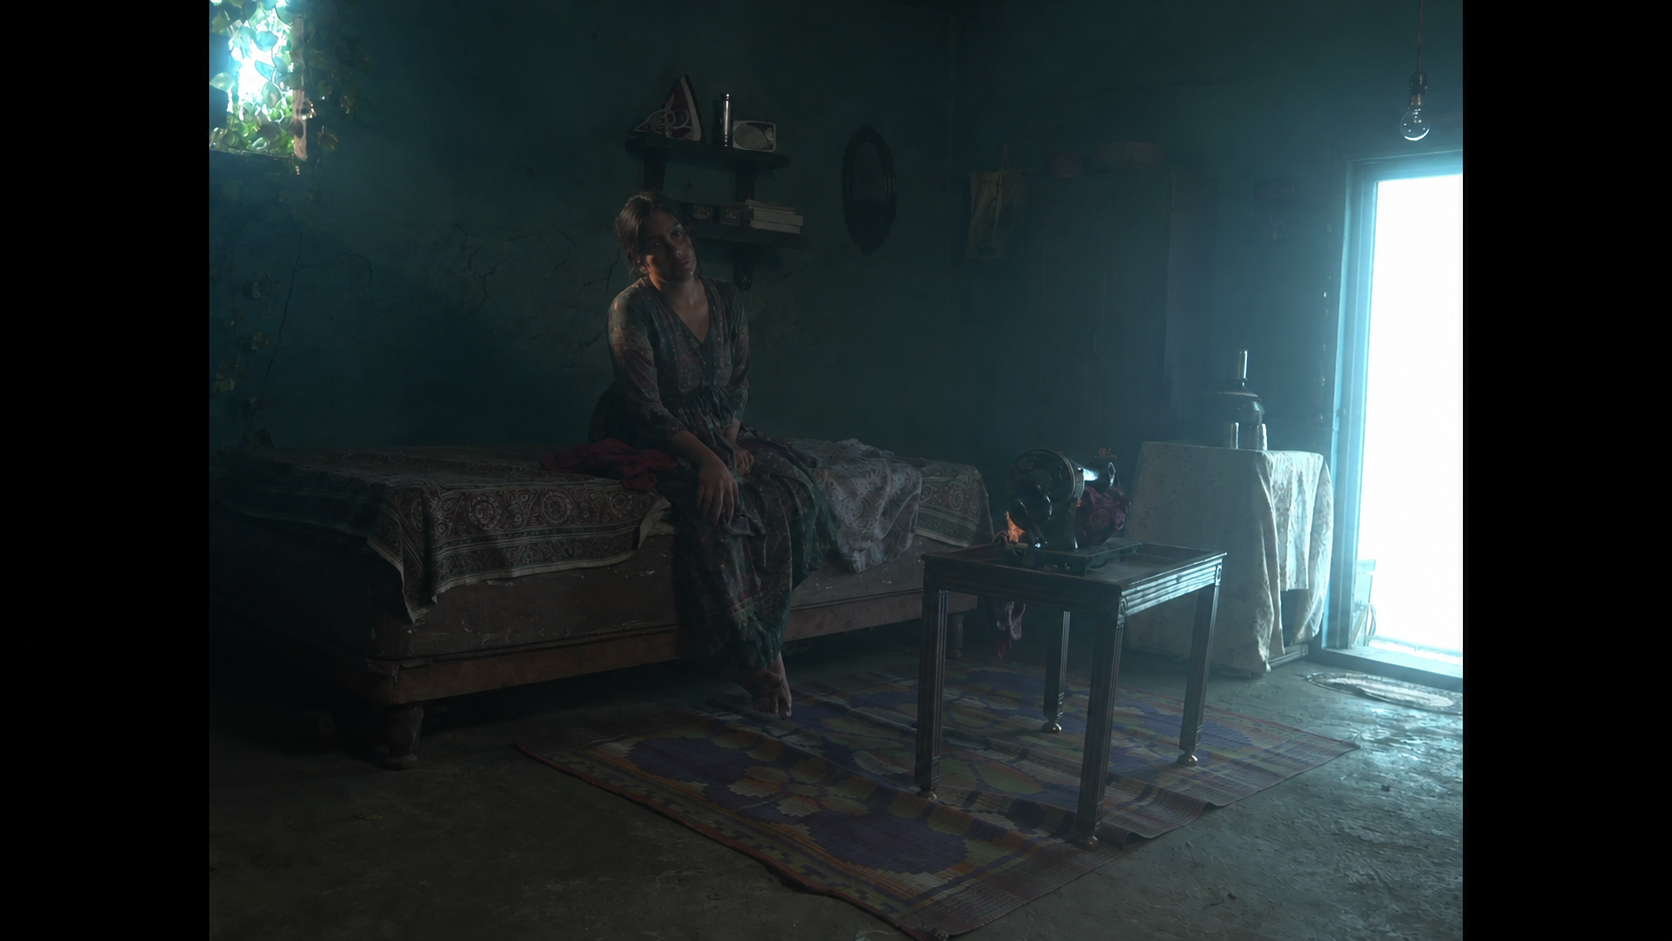
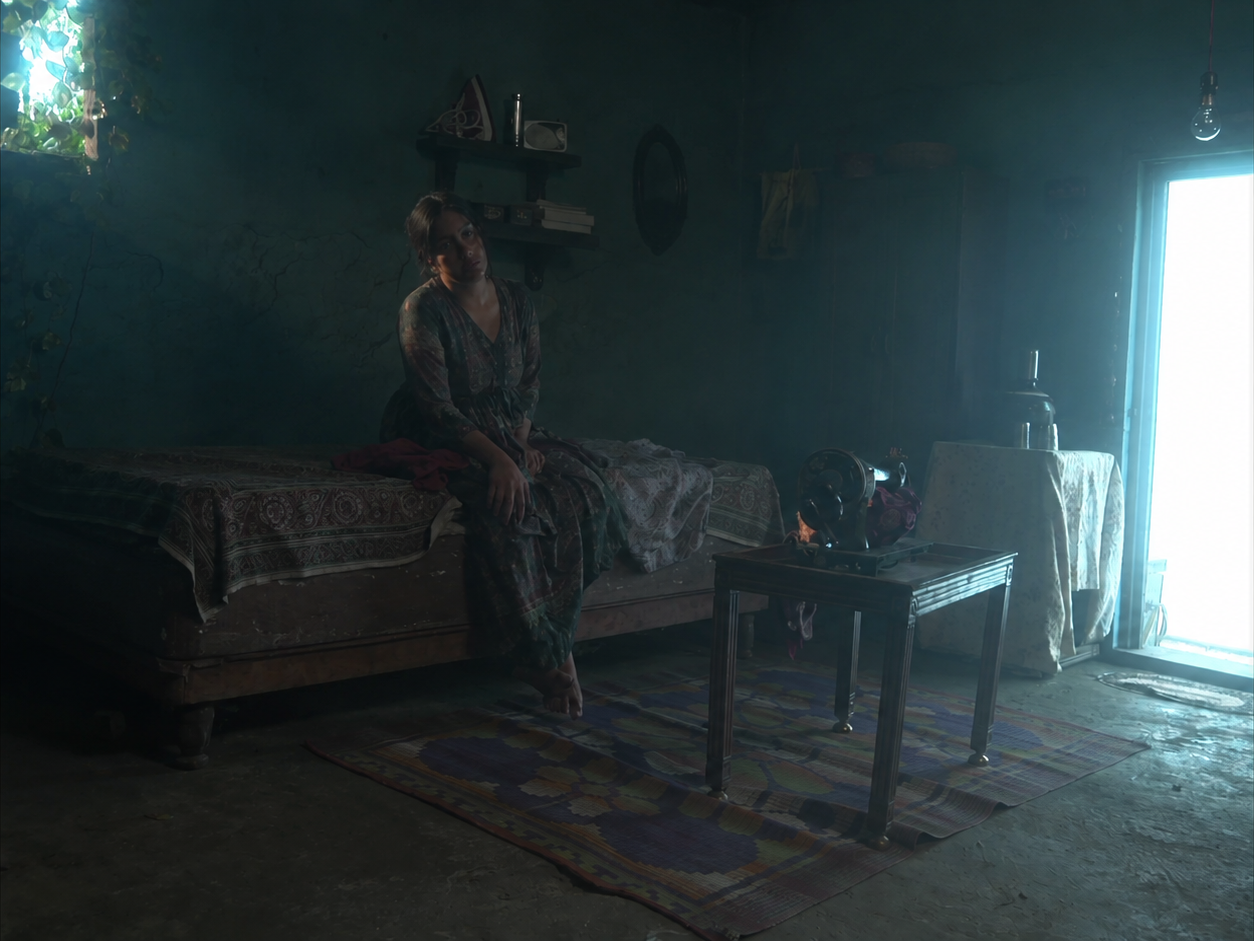
Ira cropped to 4:3, Special Ops' hover role shortened, Selected works reordered
THREE CHANGES, ON UGAM'S INSTRUCTION.

1 · SPECIAL OPS' HOVER ROLE IS "Additional Production" ALONE. The work
page is untouched — `role` and the meta Role row still carry "Assistant
Composer · Additional Production", and that is what the colophon sets.
It cut the widest fact in the catalogue from 336.5px to 166.8px.

  BUT IT DOES NOT FIT ONE LINE EVERYWHERE, AND THAT WAS THE POINT OF
  THE CHANGE. Measured: the block needs 455.3px and has 414.2 at 1280,
  so it is 41.1px over and still wraps; at 1366 it is 9.0px over; at
  1440 it fits with 18.6px to spare. The facts hang in whatever the
  title leaves and "Special Ops 2.0" is a long title, so the remaining
  width is the three 28-32px column gaps plus the 18px indent. Closing
  it would mean trimming those for all seventeen works, which is part
  of the fm5 setting applied earlier today — so it is not done here.

2 · IRA'S BEZELS ARE OFF AND ITS RATIO IS 4:3, NOT 16:9. The frames
arrived as a 4:3 picture pillarboxed into a 16:9 export. Found by the
test src/lib/frames.ts insists on — a threshold near zero read at the
edge: columns 0..208 are flat black on all eight frames and column 209
steps straight into picture, 4.2 to 127.8. Symmetric, so 209 came off
each side. Files are now 1254x941 and 1253x941.

  THE PICTURE IS NOT COMPROMISED: 4,992 sampled pixels across the eight
  frames are byte-identical to the originals at x+209, and PNG carries
  no loss through a re-encode. Originals are in git at 3c0cd89.
[…]

diff --git a/src/data/composition.ts b/src/data/composition.ts
@@ -39,89 +39,100 @@ export interface Stanza {
 }
 
 export const composition: Stanza[] = [
+  /* REORDERED 2026-09-30 on Ugam's instruction, which gave the seventeen
+     works as a numbered list and nothing else. The ORDER below is his; the
+     stanzas, columns, spans, offsets and pauses are mine, because a linear
+     list does not say which works stand together or how wide any of them is.
+
+     THE GROUPING IS BY SHAPE, as it was before, and only consecutive works
+     can pair — so the list decides which pairings were available and the
+     ratios decided which of those to take. Two pairs survive from the old
+     score intact, Aladdin with Dinshaw's and the two records, because the
+     new order happens to keep them adjacent. */
+
   // ── Movement I ──────────────────────────────────────────────────
   {
-    // The award film, alone and centred. Eight columns.
-    items: [{ slug: 'mumbai-standard-time', col: 3, span: 8, tCol: 1, tSpan: 6 }],
+    // Diwali opens now. Alone and centred at eight columns — the treatment
+    // Mumbai had when it opened, because what that placement is for is
+    // giving the first frame nothing to be compared against.
+    items: [{ slug: 'diwali-ke-shor-mein', col: 3, span: 8, tCol: 1, tSpan: 6 }],
     pause: 20,
   },
   {
-    // Both leads are 16:9, so Diwali is separated from 001 by width and by
-    // company: seven columns, with the site's only 4:3 frame beside it.
+    // THE INVERSION: 16:9 against 9:16, the same ratio transposed. It was
+    // Book My Yamraj against Special Ops before and the new order breaks
+    // that adjacency, but it puts Mumbai next to Book My Yamraj instead,
+    // which is the same argument with a different pair of works.
     items: [
-      { slug: 'diwali-ke-shor-mein', col: 1, span: 7, tCol: 1, tSpan: 4 },
-      { slug: 'aasha', col: 9, span: 4, offset: 20, tCol: 5, tSpan: 2, tOffset: 14 },
+      { slug: 'mumbai-standard-time', col: 1, span: 7, tCol: 1, tSpan: 4 },
+      { slug: 'book-my-yamraj', col: 9, span: 3, offset: 20, tCol: 5, tSpan: 2, tOffset: 14 },
     ],
     pause: 24,
+  },
+  {
+    // Aasha alone and small after a loud pair. It is one of the two 4:3
+    // frames on the site now that Ira's bezels are off, and the other is
+    // four places further down, which is far enough apart that they read as
+    // a proportion recurring rather than as a pair split up.
+    items: [{ slug: 'aasha', col: 2, span: 5, tCol: 1, tSpan: 4 }],
+    pause: 18,
   },
   {
     // 3:2 edge-to-edge was 960px tall on a 1440 screen — taller than the
     // viewport, so you had to scroll to see one frame. Height is capped at
     // 78vh instead and the width follows from the ratio, so it always fits
-    // in one look and the stills keep their exact proportions.
+    // in one look and the stills keep their exact proportions. Unchanged.
     items: [{ slug: 'taskaree', col: 1, span: 12, maxVh: 78, tCol: 1, tSpan: 6 }],
     pause: 22,
-  },
-  {
-    // The inversion: 9:16 against 16:9. The same ratio, transposed.
-    items: [
-      { slug: 'book-my-yamraj', col: 1, span: 3, tCol: 1, tSpan: 2 },
-      { slug: 'special-ops-2', col: 5, span: 8, offset: 24, tCol: 3, tSpan: 4, tOffset: 16 },
-    ],
-    pause: 28,
   },
 
   // ── Movement II ─────────────────────────────────────────────────
   {
-    // Widest frame on the site. Opens the catalogue alone.
-    items: [{ slug: 'broken-reflections', col: 2, span: 8, tCol: 1, tSpan: 5 }],
+    // Two landscapes at different degrees of wide — 16:9 against 2.35:1.
+    // Broken Reflections opened the catalogue alone before and cannot now,
+    // because the order puts it directly after another wide frame; set
+    // beside one it becomes a comparison instead of an entrance, which is
+    // the better of the two things a 2.35 can do next to a 16:9.
+    items: [
+      { slug: 'special-ops-2', col: 1, span: 6, tCol: 1, tSpan: 3 },
+      { slug: 'broken-reflections', col: 8, span: 5, offset: 18, tCol: 4, tSpan: 3, tOffset: 12 },
+    ],
+    pause: 24,
+  },
+  {
+    // Ira's first appearance at its true proportion. 4:3 against 16:9, the
+    // narrow one held smaller so the two land at nearly the same height —
+    // 303px against 348 at 1440 — which is what makes the width difference
+    // read as width rather than as importance.
+    items: [
+      { slug: 'ira', col: 2, span: 4, tCol: 1, tSpan: 3 },
+      { slug: 'moholla', col: 7, span: 6, offset: 14, tCol: 4, tSpan: 3, tOffset: 10 },
+    ],
     pause: 20,
   },
   {
-    // IRA, ADDED 2026-09-30 between Broken Reflections and My Red Crayon on
-    // Ugam's instruction. It takes a stanza of its own rather than joining
-    // either neighbour, because both of those stanzas are arguments that a
-    // second frame would break: the one above says "opens the catalogue
-    // alone" and the one below is a scale study of two frames at the SAME
-    // ratio, which a third 16:9 at a third width would turn into a list.
-    //
-    // ← THE PLACEMENT IS MINE. Ugam gave the position in the score, not the
-    //   column or the width. Flush right at 8..12 answers the centred frame
-    //   above it and sets up My Red Crayon, which starts at column 1 — so
-    //   the eye crosses the page between the two rather than stepping down
-    //   the same edge. Five columns keeps it smaller than the frame it
-    //   follows, which is the widest on the site. No offset: offsets here
-    //   exist to break a baseline shared with a second frame in the same
-    //   stanza, and this stanza has none.
-    items: [{ slug: 'ira', col: 8, span: 5, tCol: 3, tSpan: 4 }],
-    pause: 18,
-  },
-  {
-    // The scale study: identical 16:9 proportion at four columns and seven.
+    // The inversion again, and deliberately not adjacent to the first one:
+    // 16:9 against 9:16 with four stanzas between them, so it reads as a
+    // rhyme rather than as a repeat.
     items: [
       { slug: 'my-red-crayon', col: 1, span: 4, tCol: 1, tSpan: 3 },
-      { slug: 'the-shiva-trilogy', col: 6, span: 7, offset: 16, tCol: 4, tSpan: 3, tOffset: 12 },
+      { slug: 'bloody-bubbly', col: 7, span: 3, offset: 16, tCol: 4, tSpan: 2, tOffset: 12 },
     ],
     pause: 24,
   },
   {
-    // A narrow upright against a wide landscape — 9:16 beside 3:2.
-    // Moholla keeps its own six-column width rather than inheriting the
-    // four Dinshaw's had: at 3:2 those columns would have made it squat,
-    // and at 9:16 Dinshaw's would have been over 1100px tall in Moholla's.
-    // Positions swap; each keeps a width that suits its shape.
+    // The widest frame on the site against a standard one. Roar at 2.39:1
+    // takes six columns and Shiva five, which puts them at 259px and 287px
+    // — the wider frame is the bigger object and still the shorter one.
     items: [
-      { slug: 'bloody-bubbly', col: 1, span: 3, tCol: 1, tSpan: 2 },
-      { slug: 'moholla', col: 6, span: 6, offset: 12, tCol: 3, tSpan: 4, tOffset: 10 },
+      { slug: 'the-shiva-trilogy', col: 1, span: 5, tCol: 1, tSpan: 3 },
+      { slug: 'roar', col: 7, span: 6, offset: 14, tCol: 4, tSpan: 3, tOffset: 10 },
     ],
-    pause: 20,
+    pause: 26,
   },
   {
-    items: [{ slug: 'roar', col: 3, span: 8, tCol: 1, tSpan: 5 }],
-    pause: 24,
-  },
-  {
-    // Two uprights at different degrees — 4:5 against 9:16.
+    // Two uprights at different degrees — 4:5 against 9:16. Unchanged from
+    // the old score; the new order keeps these two adjacent.
     items: [
       { slug: 'aladdin-dateable-bites', col: 1, span: 4, tCol: 1, tSpan: 3 },
       { slug: 'dinshaws-dildaari-battles', col: 8, span: 4, offset: 10, tCol: 4, tSpan: 3, tOffset: 8 },
@@ -130,6 +141,7 @@ export const composition: Stanza[] = [
   },
   {
     // Two records, small and square, closing the catalogue quietly.
+    // Unchanged.
     items: [
       { slug: 've-maahi', col: 2, span: 3, tCol: 1, tSpan: 2 },
       { slug: 'mere-ho', col: 6, span: 3, offset: 7, tCol: 3, tSpan: 2, tOffset: 6 },

diff --git a/src/lib/bed.ts b/src/lib/bed.ts
@@ -25,11 +25,21 @@
  * three cells.
  */
 export const BED_SWAPS: Record<string, string> = {
-  /* Measured against the cells that are actually seen, both land well: Aasha
-     takes the cell clear of the aperture edge and of every panel 0.47 of the
-     time — second best on the bed — and Diwali one at 0.29. */
+  /* Measured against the cells that are actually seen, both landed well:
+     Aasha took the cell clear of the aperture edge and of every panel 0.47 of
+     the time — second best on the bed — and Diwali one at 0.29.
+
+     <- VE MAAHI'S TARGET IS BROKEN REFLECTIONS NOW, NOT AASHA, and it was
+       forced rather than preferred. After the 2026-09-30 reorder this swap
+       put Aasha in cell 15 while the unswapped cycle put it in cell 20, and
+       those two are diagonal neighbours — a violation between TWO CENTRE
+       CELLS, which BED_CELLS may not reach. The swap target is the only lever
+       that moves a centre cell, so it had to move. Broken Reflections carries
+       ten frames and a BED_CROP correction proven across all of them, and it
+       lands inside the ring's two-use ceiling. What is lost is the 0.47
+       measurement above, which was about Aasha in particular. */
   'dinshaws-dildaari-battles': 'diwali-ke-shor-mein',
-  've-maahi': 'aasha',
+  've-maahi': 'broken-reflections',
 
   /* THESE THREE ROTATE, they are not two independent exchanges — and because
      the table is keyed on the SCORE'S slug rather than on the current occupant,
@@ -199,10 +209,16 @@ export const BED_GRADE: Record<string, { contrast: number }> = {
  *
  * <- FOURTEEN SINCE IRA, not fifteen, and the two-use ceiling still holds.
  *   Recasting cells 4 and 17 took Shiva and Bloody Bubbly out of the ring and
- *   put Ira in and Broken Reflections up to two. Across the whole bed it is
- *   sixteen works of seventeen, Mere Ho being the one absent -- which is the
- *   arrangement agreeing with BED_SWAPS rather than contradicting it, since
- *   that table already routes Mere Ho away from every cell anyone sees.
+ *   put Ira in and Broken Reflections up to two.
+ *
+ * <- AND AFTER THE REORDER IT IS BETTER THAN IT WAS. Cell 18 is Shiva again
+ *   and cell 28 is Book My Yamraj, which puts ALL SEVENTEEN WORKS in the bed
+ *   and twelve distinct works across the twelve centre cells -- where before
+ *   the reorder it was sixteen of seventeen with Mere Ho absent and the
+ *   centre down to eleven. The ring is still fourteen distinct and still
+ *   under the two-use ceiling. Aladdin and Broken Reflections each hold
+ *   three cells across the whole bed, two of them in the ring, which is what
+ *   the ceiling actually constrains.
  *
  * TONALLY they run 6.3 to 30.4 by the same measurement that puts the twelve
  * centre tiles at 5.9 to 29.7 -- so the partial ring now sits inside the
@@ -262,6 +278,29 @@ export const BED_GRADE: Record<string, { contrast: number }> = {
  *   any frame of that work, so the worry does not bite here.
  */
 /**
+ * THE REORDER, 2026-09-30, AND WHY THIS TABLE KEEPS MOVING.
+ *
+ * Ugam gave a new order for Selected works the same day Ira was added. The
+ * bed walks `order`, so a REORDER perturbs it exactly as an addition does —
+ * and it did, immediately after the repair below: three fresh violations,
+ * cells 15 and 20 both Aasha, 18 and 19 both Book My Yamraj, 21 and 28 both
+ * Taskaree.
+ *
+ * ONE OF THE THREE WAS BETWEEN TWO CENTRE CELLS, which is the case this
+ * table cannot touch, and that is what forced BED_SWAPS to change rather
+ * than only BED_CELLS. Ve Maahi's swap target moved from Aasha to Broken
+ * Reflections; cell 18 took Shiva back and cell 28 took Book My Yamraj.
+ * Verified after, against the table and again in the rendered DOM: 0
+ * violations, all seventeen works in the bed, twelve distinct centre cells.
+ *
+ * <- THE REAL LESSON IS THAT THIS ARRANGEMENT IS COUPLED TO THE SCORE and
+ *   nothing warns you. The centre twelve are whatever `order` puts there,
+ *   the ring is pinned, and only the pair of them together satisfies the
+ *   adjacency rule — so ANY reordering or addition in composition.ts can
+ *   break it silently, and did twice in one day. Nothing in the build
+ *   checks it. If this happens a third time, the fix is probably to make
+ *   the check part of the build rather than to keep re-searching by hand.
+ *
  * IRA, AND WHAT A SEVENTEENTH WORK DID TO THIS ARRANGEMENT.
  *
  * 2026-09-30. The bed walks `order` and repeats it to fill thirty tiles, so
@@ -289,8 +328,14 @@ export const BED_GRADE: Record<string, { contrast: number }> = {
  * looked at first, then measured. Graded at the bed's own brightness(0.30)
  * saturate(0.7) contrast(1.05):
  *
- *   Ira 06                  10.4 mean, brightest 55.3, 0 pixels over #4C4C4C
+ *   Ira 06                  14.0 mean, brightest 62.6, 0 pixels over #4C4C4C
  *   Broken Reflections 09   26.6 mean, brightest 66.1, 0 pixels over #4C4C4C
+ *
+ * <- IRA 06 READ 10.4 WHEN IT WAS PICKED AND READS 14.0 NOW. Nothing about
+ *   the tile changed: its frames were pillarboxed 16:9 when it was measured
+ *   and the black bars were carried into the mean. They came off the same
+ *   day and the figure above is the picture's own. It is still inside the
+ *   bed's band and still clears the ceiling, so the choice stands.
  *
  * Both sit inside the bed's own 6.3..30.4 band and neither breaks the
  * readability ceiling. Ira's other frames were rejected on sight or on tone:
@@ -315,7 +360,7 @@ export const BED_CELLS: Record<number, { slug: string; frame: string; note: stri
   1:  { slug: 've-maahi',             frame: '01.JPG',  note: 'bangles, hands, gold, 18.0' },
   2:  { slug: 'mumbai-standard-time', frame: '10.png',  note: 'an alarm clock, still life, 13.5' },
   3:  { slug: 'dinshaws-dildaari-battles', frame: '08.png', note: 'a crowd in identical masks, 20.8' },
-  4:  { slug: 'ira',                  frame: '06.png',  note: 'a tent, a courtyard, a small red figure, 10.4 - was Shiva 02, see IRA below' },
+  4:  { slug: 'ira',                  frame: '06.png',  note: 'a tent, a courtyard, a small red figure, 14.0 - was Shiva 02, see IRA below' },
   5:  { slug: 'my-red-crayon',        frame: '05.png',  note: 'two children and a red ribbon, 27.8' },
 
   /* side middles, 0.336 visible */
@@ -323,7 +368,7 @@ export const BED_CELLS: Record<number, { slug: string; frame: string; note: stri
   11: { slug: 'aasha',                frame: '05.png',  note: 'blinds, black and white, 20.6' },
   12: { slug: 'roar',                 frame: '02.png',  note: "a tiger's eye, 9.5" },
   17: { slug: 'broken-reflections',   frame: '09.png',  note: 'a lens filling the frame, 26.6 - was Bloody Bubbly 02, see IRA below' },
-  18: { slug: 'book-my-yamraj',       frame: '07.png',  note: '11.8' },
+  18: { slug: 'the-shiva-trilogy',    frame: '02.png',  note: 'an archer against fire, 21.5 - was Book My Yamraj 07, see THE REORDER below' },
   23: { slug: 'aladdin-dateable-bites', frame: '03.png', note: '21.5' },
 
   /* bottom row */
@@ -331,7 +376,7 @@ export const BED_CELLS: Record<number, { slug: string; frame: string; note: stri
   25: { slug: 'moholla',              frame: '02.png',  note: 'a courtyard from above at night, 14.1' },
   26: { slug: 'broken-reflections',   frame: '02.png',  note: 'a face behind glass, 13.9' },
   27: { slug: 'diwali-ke-shor-mein',  frame: '10.jpg',  note: '30.4 - HELD, the tile below the original Special Ops still' },
-  28: { slug: 'taskaree',             frame: '06.webp', note: 'fire behind the figure, 23.2' },
+  28: { slug: 'book-my-yamraj',       frame: '07.png',  note: '11.0 - was Taskaree 06, see THE REORDER below' },
   29: { slug: 'roar',                 frame: '04.png',  note: 'claw marks raked down bark, 9.4' },
 };
 

diff --git a/src/content/works/ira.md b/src/content/works/ira.md
@@ -3,11 +3,20 @@ title: "Ira"
 year: 2024
 category: "Short Film"
 opening: still
-# ← RATIO IS MEASURED, NOT STATED. Ugam's list gives no ratio. All eight
-#   frames are 1672x941 or 1671x941 — 1.7768 and 1.7758 against 16:9's
-#   1.7778, which is screenshot rounding rather than a different shape.
-#   Correct this if the film was finished in something else.
-ratio: "16:9"
+# ← RATIO IS MEASURED, NOT STATED, AND IT CHANGED ONCE THE BEZELS CAME OFF.
+#   The frames arrived 1672x941 and 1671x941 — 16:9 — but that was a 4:3
+#   picture pillarboxed into a 16:9 export. Measured by the test
+#   src/lib/frames.ts insists on, a threshold near zero read at the edge:
+#   columns 0..208 are flat black on all eight and column 209 steps straight
+#   into picture, 4.2 to 127.8. Symmetric, so 209 came off each side on
+#   2026-09-30 and the files are now 1254x941 and 1253x941 — 1.3326 and
+#   1.3316 against 4:3's 1.3333.
+#
+#   THE PICTURE ITSELF IS UNTOUCHED. The crop is centred and exact, so it
+#   removed only the bars: 4,992 sampled pixels across the eight frames are
+#   byte-identical to the originals at x+209, and PNG carries no loss through
+#   a re-encode. The originals are in git at 3c0cd89 if they are ever wanted.
+ratio: "4:3"
 role: "Composer"
 awards:
   - text: "Official Selection · Chicago South Asian Film Festival"

diff --git a/src/content/works/special-ops-2.md b/src/content/works/special-ops-2.md
@@ -19,10 +19,18 @@ description: >
   to the shifting tension, pace and emotional perspective of each sequence.
   Cues were developed directly against picture, balancing continuity with
   enough variation to keep the score evolving across the series.
+# ← THE HOVER'S ROLE IS SHORTER THAN THE COLOPHON'S, ON PURPOSE. Ugam asked
+#   on 2026-09-30 for "Additional Production" alone here so the four facts
+#   fit one line in Selected works; at "Assistant Composer · Additional
+#   Production" this was the widest fact in the catalogue at 336.5px and the
+#   only work that took two rows on its own account. THE WORK PAGE IS NOT
+#   AFFECTED — `role` below still carries the full credit, and that is what
+#   the colophon sets. This is the second place the two readings differ by
+#   intent, after the five works whose hover Format is not their colophon's.
 hover:
   - { label: "Format", value: "Web Series" }
   - { label: "Platform", value: "JioHotstar" }
-  - { label: "Role", value: "Assistant Composer · Additional Production" }
+  - { label: "Role", value: "Additional Production" }
   - { label: "Year", value: "2025" }
 meta:
   - { label: "Directors", value: "Neeraj Pandey · Shivam Nair" }
